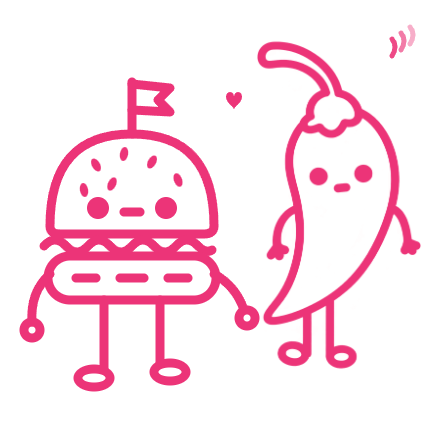
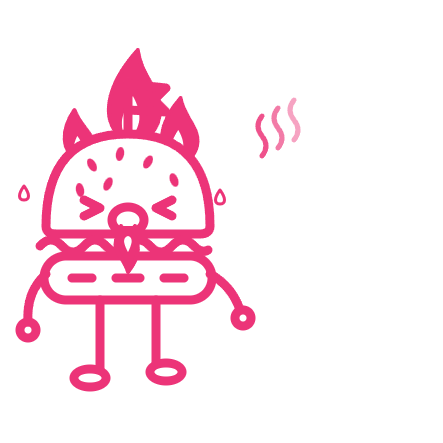
Cambios versión 3: #MUERDE LA TENTACIÓN, PM en el horario, GIF del ají y contraseña del admin
- Video de la plancha: "#MUERDE LA TENTACIÓN" en la esquina con sombra para leerse.
- Aviso de cerrado y página de cerrado: "PM" al lado de la hora.
- GIF: la hamburguesa se come el ají y arde por lo picante.
- Admin: botón CONTRASEÑA para cambiarla desde el panel
  (supabase/admin-password.sql, pide la actual y cierra otras sesiones).
- La contraseña ya no está escrita en el repositorio.

diff --git a/src/components/AdminPanel.jsx b/src/components/AdminPanel.jsx
@@ -1,11 +1,12 @@
 import { useEffect, useMemo, useState } from 'react';
 import { createPortal } from 'react-dom';
-import { ArrowLeft, Check, ClipboardList, FileCheck, Image, LogOut, MapPin, Package, Phone, RotateCcw, Search, ShoppingBag, Truck, X, ZoomIn, ZoomOut } from 'lucide-react';
+import { ArrowLeft, Check, ClipboardList, FileCheck, Image, KeyRound, LogOut, MapPin, Package, Phone, RotateCcw, Search, ShoppingBag, Truck, X, ZoomIn, ZoomOut } from 'lucide-react';
 import { getReceiptUrl } from '../lib/orders';
 import { getOrderStage, ORDER_STAGES } from '../lib/orderStatus';
 import { deliveryMapsUrl, displayDeliveryAddress, getDeliveryZoneFromAddress, DELIVERY_ZONES } from '../lib/delivery';
 import { loadDeliveryZones } from '../lib/deliveryZones';
 import AdminDeliveryZones from './AdminDeliveryZones';
+import AdminPasswordDialog from './AdminPasswordDialog';
 import StoreSwitch from './StoreSwitch';
 import AdminCoupons from './AdminCoupons';
 
@@ -22,7 +23,7 @@ function AdminAccess({user,authReady,onLogin,onSignOut,onDemoLogin}){
 
 export default function AdminPanel({products,stock,onToggleStock,orders,onUpdateOrder,onDeleteOrder,storeOpen,onToggleStore,storeSyncState,user,authReady,adminAllowed,onLogin,onSignOut,demoAdmin,onDemoLogin,demoToken}){
  const[tab,setTab]=useState('orders'),[selected,setSelected]=useState(null),[day,setDay]=useState('all'),[status,setStatus]=useState('all'),[query,setQuery]=useState(''),[busy,setBusy]=useState(false),[error,setError]=useState('');
- const[zones,setZones]=useState(DELIVERY_ZONES);
+ const[zones,setZones]=useState(DELIVERY_ZONES),[passwordOpen,setPasswordOpen]=useState(false);
  useEffect(()=>{loadDeliveryZones({includeInactive:true}).then(result=>setZones(result.zones)).catch(()=>{})},[]);
  const dates=useMemo(()=>[...new Set(orders.map(order=>new Date(order.created_at||Date.now()).toISOString().slice(0,10)))].sort().reverse(),[orders]);
  const filtered=useMemo(()=>orders.filter(order=>{
@@ -36,7 +37,7 @@ export default function AdminPanel({products,stock,onToggleStock,orders,onUpdate
  const remove=async()=>{if(!window.confirm('¿Eliminar este pedido y su comprobante?'))return;setBusy(true);const removed=await onDeleteOrder(selected.id);if(removed)setSelected(null);setBusy(false)};
  const selectedAddress=selected?.customer?.address||selected?.address||'',selectedDeliveryZone=selected?getDeliveryZoneFromAddress(selectedAddress,zones):null,selectedMapUrl=selected?deliveryMapsUrl(selectedAddress):null;
  const syncLabel=storeSyncState==='live'?'SINCRONIZACIÓN EN VIVO':storeSyncState==='connecting'?'CONECTANDO…':'RECONECTANDO';
- return <main className="admin-shell"><header className="admin-topbar"><a href="/" className="admin-brand"><img src="/assets/logo shet burger.png" alt=""/><span>SHET BURGER <small>ADMIN</small></span></a><button type="button" onClick={onSignOut}><LogOut/> Salir</button></header><div className="admin-content"><div className="admin-heading"><div><p>PANEL DE CONTROL</p><h1>Operación<br/><em>SHET.</em></h1></div><span>Pedidos, comprobantes<br/>y disponibilidad.</span></div><div className={`admin-sync-state is-${storeSyncState||'connecting'}`}><div><span>ESTADO DE SINCRONIZACIÓN</span><strong>{syncLabel}</strong></div><small>Los cambios de stock se guardan globalmente y se reflejan en todos los dispositivos.</small></div><div className="admin-store-sticky"><StoreSwitch active={storeOpen} onToggle={onToggleStore}/></div><div className="admin-stats"><article><ShoppingBag/><span>Pedidos totales</span><strong>{orders.length}</strong></article><article><ClipboardList/><span>Pendientes</span><strong>{orders.filter(order=>getOrderStage(order)<2).length}</strong></article><article><Truck/><span>Delivery activos</span><strong>{orders.filter(order=>(order.mode==='delivery'||order.fulfillment==='delivery')&&getOrderStage(order)<3).length}</strong></article><article><Package/><span>Productos activos</span><strong>{products.filter(product=>stock[product.id]!==false).length}</strong></article></div><nav className="admin-tabs"><button className={tab==='orders'?'active':''} onClick={()=>setTab('orders')}>PEDIDOS <b>{orders.length}</b></button><button className={tab==='logistics'?'active':''} onClick={()=>setTab('logistics')}>LOGÍSTICA</button><button className={tab==='receipts'?'active':''} onClick={()=>setTab('receipts')}>COMPROBANTES <b>{orders.filter(order=>order.receipt_name||order.receipt_path).length}</b></button><button className={tab==='products'?'active':''} onClick={()=>setTab('products')}>DISPONIBILIDAD</button><button className={tab==='coupons'?'active':''} onClick={()=>setTab('coupons')}>PROMOCIONES</button><button className={tab==='zones'?'active':''} onClick={()=>setTab('zones')}>ZONAS DE DESPACHO</button></nav>{tab==='coupons'&&<AdminCoupons token={demoToken||null} products={products}/>}{tab==='zones'&&<AdminDeliveryZones token={demoToken||null} zones={zones} onSaved={setZones}/>}{tab==='orders'&&<section className="admin-orders"><div className="admin-section-title"><h2>Pedidos</h2><div className="admin-order-filters"><label><Search/><input value={query} onChange={event=>setQuery(event.target.value)} placeholder="Nombre, teléfono o pedido"/></label><select value={status} onChange={event=>setStatus(event.target.value)}><option value="all">Todos los estados</option>{ORDER_STAGES.map(item=><option key={item.stage} value={item.stage}>{item.status}</option>)}</select><select value={day} onChange={event=>setDay(event.target.value)}><option value="all">Todos los días</option>{dates.map(date=><option key={date} value={date}>{date}</option>)}</select></div></div>{!filtered.length?<div className="admin-empty"><ClipboardList/><h3>No hay pedidos con estos filtros</h3></div>:filtered.map(order=><button className="admin-order" key={order.id} onClick={()=>{setError('');setSelected(order)}}><div><span>#{order.order_number||order.id}</span><strong>{order.customer?.name||order.customer_name||'Cliente'}</strong><small>{order.items?.length||0} productos · {order.mode==='delivery'||order.fulfillment==='delivery'?'Delivery':'Retiro'}{(order.receipt_name||order.receipt_path)&&<i> · Comprobante</i>}</small></div><div><b>{money(order.total)}</b><em>{order.status}</em></div></button>)}</section>}{tab==='logistics'&&<section className="analytics-card"><div className="admin-section-title"><h2>Flujo operativo</h2></div><div className="logistics-grid">{ORDER_STAGES.map(item=><article key={item.stage}><span>{item.status.toUpperCase()}</span><strong>{orders.filter(order=>getOrderStage(order)===item.stage).length}</strong></article>)}</div></section>}{tab==='receipts'&&<section className="admin-receipts"><div className="admin-section-title"><h2>Comprobantes enviados</h2><select value={day} onChange={event=>setDay(event.target.value)}><option value="all">Todos los días</option>{dates.map(date=><option key={date} value={date}>{date}</option>)}</select></div>{filtered.filter(order=>order.receipt_name||order.receipt_path||order.receipt_preview).map(order=><ReceiptRow key={order.id} order={order}/>) }{!filtered.some(order=>order.receipt_name||order.receipt_path||order.receipt_preview)&&<div className="admin-empty"><FileCheck/><h3>Sin comprobantes</h3></div>}</section>}{tab==='products'&&<section className="admin-products"><div className="admin-section-title"><h2>Disponibilidad</h2></div><div className="admin-product-list">{products.map(product=><article key={product.id}><div className="admin-product-thumb">{product.image?<img src={product.image} alt=""/>:<span>{product.category}</span>}</div><div><strong>{product.name}</strong><small>{product.category}</small></div><button className={stock[product.id]===false?'sold-out':''} onClick={()=>onToggleStock(product.id)}>{stock[product.id]===false?<><X/> AGOTADO</>:<><Check/> DISPONIBLE</>}</button></article>)}</div></section>}{selected&&<div className="admin-modal"><button className="admin-modal__backdrop" onClick={()=>setSelected(null)} aria-label="Cerrar detalle"/><article><button className="admin-modal__close" onClick={()=>setSelected(null)} aria-label="Cerrar"><X/></button><p>PEDIDO #{selected.order_number||selected.id}</p><h2>{selected.customer?.name||selected.customer_name||'Cliente'}</h2><span className="admin-mode">{selected.mode==='delivery'||selected.fulfillment==='delivery'?'DELIVERY · '+displayDeliveryAddress(selectedAddress):'RETIRO EN EL CARRITO · RÍO LOA 130'}</span>{selectedMapUrl&&<a className="admin-customer-phone" href={selectedMapUrl} target="_blank" rel="noreferrer"><MapPin/> ABRIR UBICACIÓN EN MAPS</a>}{(selected.customer?.phone||selected.customer_phone)&&<a className="admin-customer-phone" href={`tel:${selected.customer?.phone||selected.customer_phone}`}><Phone/> LLAMAR AL {selected.customer?.phone||selected.customer_phone}</a>}<div className="admin-modal__items">{selected.items?.map((item,index)=><div className="admin-item-detail" key={item.product?.id||index}><div><span>{item.quantity} × {item.product?.name||item.name} {item.variant&&`(${item.variant})`}</span><b>{money(item.price*item.quantity)}</b></div>{item.burger_choices?.length>0&&<small><strong>Hamburguesas:</strong> {item.burger_choices.join(', ')}</small>}{item.selections?.map((selection,i)=><small key={i}><strong>{selection.label}:</strong> {selection.value}</small>)}{item.note&&<small><strong>Instrucción:</strong> {item.note}</small>}</div>)}{selectedDeliveryZone&&<div><span>Despacho · {selectedDeliveryZone.label}</span><b>{money(selectedDeliveryZone.fee)}</b></div>}</div>{selected.coupon_code&&<p className="order-coupon-detail">Cupón {selected.coupon_code}: -{money(selected.discount_amount)}</p>}<div className="admin-modal__total"><span>Total</span><strong>{money(selected.total)}</strong></div><div className="admin-status"><Check/> {selected.status}</div><div className="admin-status-actions"><span>ACTUALIZAR ESTADO</span>{steps.map(item=><button className={getOrderStage(selected)===item.stage?'active':''} disabled={busy} key={item.status} onClick={()=>update(item.status,item.stage)}>{item.status.toUpperCase()}</button>)}</div>{error&&<p className="admin-error" role="alert">{error}</p>}{(selected.receipt_name||selected.receipt_path)&&<ReceiptRow order={selected}/>}<button className="admin-delete-order" disabled={busy} onClick={remove}>{busy?'PROCESANDO...':'ELIMINAR PEDIDO'}</button></article></div>}</div></main>;
+ return <main className="admin-shell"><header className="admin-topbar"><a href="/" className="admin-brand"><img src="/assets/logo shet burger.png" alt=""/><span>SHET BURGER <small>ADMIN</small></span></a><div className="admin-topbar__actions">{demoToken&&<button type="button" onClick={()=>setPasswordOpen(true)}><KeyRound/> Contraseña</button>}<button type="button" onClick={onSignOut}><LogOut/> Salir</button></div></header>{passwordOpen&&<AdminPasswordDialog token={demoToken} onClose={()=>setPasswordOpen(false)}/>}<div className="admin-content"><div className="admin-heading"><div><p>PANEL DE CONTROL</p><h1>Operación<br/><em>SHET.</em></h1></div><span>Pedidos, comprobantes<br/>y disponibilidad.</span></div><div className={`admin-sync-state is-${storeSyncState||'connecting'}`}><div><span>ESTADO DE SINCRONIZACIÓN</span><strong>{syncLabel}</strong></div><small>Los cambios de stock se guardan globalmente y se reflejan en todos los dispositivos.</small></div><div className="admin-store-sticky"><StoreSwitch active={storeOpen} onToggle={onToggleStore}/></div><div className="admin-stats"><article><ShoppingBag/><span>Pedidos totales</span><strong>{orders.length}</strong></article><article><ClipboardList/><span>Pendientes</span><strong>{orders.filter(order=>getOrderStage(order)<2).length}</strong></article><article><Truck/><span>Delivery activos</span><strong>{orders.filter(order=>(order.mode==='delivery'||order.fulfillment==='delivery')&&getOrderStage(order)<3).length}</strong></article><article><Package/><span>Productos activos</span><strong>{products.filter(product=>stock[product.id]!==false).length}</strong></article></div><nav className="admin-tabs"><button className={tab==='orders'?'active':''} onClick={()=>setTab('orders')}>PEDIDOS <b>{orders.length}</b></button><button className={tab==='logistics'?'active':''} onClick={()=>setTab('logistics')}>LOGÍSTICA</button><button className={tab==='receipts'?'active':''} onClick={()=>setTab('receipts')}>COMPROBANTES <b>{orders.filter(order=>order.receipt_name||order.receipt_path).length}</b></button><button className={tab==='products'?'active':''} onClick={()=>setTab('products')}>DISPONIBILIDAD</button><button className={tab==='coupons'?'active':''} onClick={()=>setTab('coupons')}>PROMOCIONES</button><button className={tab==='zones'?'active':''} onClick={()=>setTab('zones')}>ZONAS DE DESPACHO</button></nav>{tab==='coupons'&&<AdminCoupons token={demoToken||null} products={products}/>}{tab==='zones'&&<AdminDeliveryZones token={demoToken||null} zones={zones} onSaved={setZones}/>}{tab==='orders'&&<section className="admin-orders"><div className="admin-section-title"><h2>Pedidos</h2><div className="admin-order-filters"><label><Search/><input value={query} onChange={event=>setQuery(event.target.value)} placeholder="Nombre, teléfono o pedido"/></label><select value={status} onChange={event=>setStatus(event.target.value)}><option value="all">Todos los estados</option>{ORDER_STAGES.map(item=><option key={item.stage} value={item.stage}>{item.status}</option>)}</select><select value={day} onChange={event=>setDay(event.target.value)}><option value="all">Todos los días</option>{dates.map(date=><option key={date} value={date}>{date}</option>)}</select></div></div>{!filtered.length?<div className="admin-empty"><ClipboardList/><h3>No hay pedidos con estos filtros</h3></div>:filtered.map(order=><button className="admin-order" key={order.id} onClick={()=>{setError('');setSelected(order)}}><div><span>#{order.order_number||order.id}</span><strong>{order.customer?.name||order.customer_name||'Cliente'}</strong><small>{order.items?.length||0} productos · {order.mode==='delivery'||order.fulfillment==='delivery'?'Delivery':'Retiro'}{(order.receipt_name||order.receipt_path)&&<i> · Comprobante</i>}</small></div><div><b>{money(order.total)}</b><em>{order.status}</em></div></button>)}</section>}{tab==='logistics'&&<section className="analytics-card"><div className="admin-section-title"><h2>Flujo operativo</h2></div><div className="logistics-grid">{ORDER_STAGES.map(item=><article key={item.stage}><span>{item.status.toUpperCase()}</span><strong>{orders.filter(order=>getOrderStage(order)===item.stage).length}</strong></article>)}</div></section>}{tab==='receipts'&&<section className="admin-receipts"><div className="admin-section-title"><h2>Comprobantes enviados</h2><select value={day} onChange={event=>setDay(event.target.value)}><option value="all">Todos los días</option>{dates.map(date=><option key={date} value={date}>{date}</option>)}</select></div>{filtered.filter(order=>order.receipt_name||order.receipt_path||order.receipt_preview).map(order=><ReceiptRow key={order.id} order={order}/>) }{!filtered.some(order=>order.receipt_name||order.receipt_path||order.receipt_preview)&&<div className="admin-empty"><FileCheck/><h3>Sin comprobantes</h3></div>}</section>}{tab==='products'&&<section className="admin-products"><div className="admin-section-title"><h2>Disponibilidad</h2></div><div className="admin-product-list">{products.map(product=><article key={product.id}><div className="admin-product-thumb">{product.image?<img src={product.image} alt=""/>:<span>{product.category}</span>}</div><div><strong>{product.name}</strong><small>{product.category}</small></div><button className={stock[product.id]===false?'sold-out':''} onClick={()=>onToggleStock(product.id)}>{stock[product.id]===false?<><X/> AGOTADO</>:<><Check/> DISPONIBLE</>}</button></article>)}</div></section>}{selected&&<div className="admin-modal"><button className="admin-modal__backdrop" onClick={()=>setSelected(null)} aria-label="Cerrar detalle"/><article><button className="admin-modal__close" onClick={()=>setSelected(null)} aria-label="Cerrar"><X/></button><p>PEDIDO #{selected.order_number||selected.id}</p><h2>{selected.customer?.name||selected.customer_name||'Cliente'}</h2><span className="admin-mode">{selected.mode==='delivery'||selected.fulfillment==='delivery'?'DELIVERY · '+displayDeliveryAddress(selectedAddress):'RETIRO EN EL CARRITO · RÍO LOA 130'}</span>{selectedMapUrl&&<a className="admin-customer-phone" href={selectedMapUrl} target="_blank" rel="noreferrer"><MapPin/> ABRIR UBICACIÓN EN MAPS</a>}{(selected.customer?.phone||selected.customer_phone)&&<a className="admin-customer-phone" href={`tel:${selected.customer?.phone||selected.customer_phone}`}><Phone/> LLAMAR AL {selected.customer?.phone||selected.customer_phone}</a>}<div className="admin-modal__items">{selected.items?.map((item,index)=><div className="admin-item-detail" key={item.product?.id||index}><div><span>{item.quantity} × {item.product?.name||item.name} {item.variant&&`(${item.variant})`}</span><b>{money(item.price*item.quantity)}</b></div>{item.burger_choices?.length>0&&<small><strong>Hamburguesas:</strong> {item.burger_choices.join(', ')}</small>}{item.selections?.map((selection,i)=><small key={i}><strong>{selection.label}:</strong> {selection.value}</small>)}{item.note&&<small><strong>Instrucción:</strong> {item.note}</small>}</div>)}{selectedDeliveryZone&&<div><span>Despacho · {selectedDeliveryZone.label}</span><b>{money(selectedDeliveryZone.fee)}</b></div>}</div>{selected.coupon_code&&<p className="order-coupon-detail">Cupón {selected.coupon_code}: -{money(selected.discount_amount)}</p>}<div className="admin-modal__total"><span>Total</span><strong>{money(selected.total)}</strong></div><div className="admin-status"><Check/> {selected.status}</div><div className="admin-status-actions"><span>ACTUALIZAR ESTADO</span>{steps.map(item=><button className={getOrderStage(selected)===item.stage?'active':''} disabled={busy} key={item.status} onClick={()=>update(item.status,item.stage)}>{item.status.toUpperCase()}</button>)}</div>{error&&<p className="admin-error" role="alert">{error}</p>}{(selected.receipt_name||selected.receipt_path)&&<ReceiptRow order={selected}/>}<button className="admin-delete-order" disabled={busy} onClick={remove}>{busy?'PROCESANDO...':'ELIMINAR PEDIDO'}</button></article></div>}</div></main>;
 }
 
 function ReceiptRow({order}){

diff --git a/src/components/AdminPasswordDialog.jsx b/src/components/AdminPasswordDialog.jsx
@@ -1,0 +1,48 @@
+import { useEffect, useState } from 'react';
+import { Check, Eye, EyeOff, KeyRound, X } from 'lucide-react';
+import { changeAdminPassword } from '../lib/supabase';
+
+/** Lets the owner change the admin panel password (needs the current one). */
+export default function AdminPasswordDialog({ token, onClose }) {
+  const [current, setCurrent] = useState(''), [next, setNext] = useState(''), [repeat, setRepeat] = useState('');
+  const [show, setShow] = useState(false), [busy, setBusy] = useState(false), [error, setError] = useState(''), [done, setDone] = useState(false);
+  useEffect(() => { const escape = event => event.key === 'Escape' && onClose(); window.addEventListener('keydown', escape); return () => window.removeEventListener('keydown', escape); }, [onClose]);
+
+  const submit = async event => {
+    event.preventDefault(); setError('');
+    if (next.length < 8) { setError('La nueva contraseña debe tener al menos 8 caracteres.'); return; }
+    if (next !== repeat) { setError('Las contraseñas nuevas no coinciden.'); return; }
+    if (next === current) { setError('La nueva contraseña debe ser distinta de la actual.'); return; }
+    setBusy(true);
+    const { error: failure } = await changeAdminPassword(token, current, next);
+    setBusy(false);
+    if (failure) {
+      setError(/demo_admin_change_password|schema cache|function/i.test(failure.message || '') ? 'Falta instalar esta función: ejecuta supabase/admin-password.sql en Supabase.' : failure.message || 'No se pudo cambiar la contraseña.');
+      return;
+    }
+    setDone(true);
+  };
+
+  const type = show ? 'text' : 'password';
+  return <div className="admin-modal admin-password" role="dialog" aria-modal="true" aria-labelledby="admin-password-title">
+    <button className="admin-modal__backdrop" type="button" onClick={onClose} aria-label="Cerrar"/>
+    <article>
+      <button className="admin-modal__close" type="button" onClick={onClose} aria-label="Cerrar"><X/></button>
+      <p><KeyRound aria-hidden="true"/> SEGURIDAD</p>
+      <h2 id="admin-password-title">Cambiar contraseña</h2>
+      {done ? <div className="admin-password__done" role="status">
+        <Check aria-hidden="true"/>
+        <strong>Contraseña actualizada.</strong>
+        <span>Úsala la próxima vez que entres. Se cerró la sesión en los demás dispositivos.</span>
+        <button className="admin-submit" type="button" onClick={onClose}>LISTO</button>
+      </div> : <form onSubmit={submit}>
+        <label>Contraseña actual<input type={type} autoComplete="current-password" required value={current} onChange={event => setCurrent(event.target.value)}/></label>
+        <label>Nueva contraseña<input type={type} autoComplete="new-password" required minLength="8" maxLength="72" value={next} onChange={event => setNext(event.target.value)}/><small>Mínimo 8 caracteres.</small></label>
+        <label>Repite la nueva contraseña<input type={type} autoComplete="new-password" required minLength="8" maxLength="72" value={repeat} onChange={event => setRepeat(event.target.value)}/></label>
+        <button className="admin-password__toggle" type="button" onClick={() => setShow(value => !value)}>{show ? <EyeOff aria-hidden="true"/> : <Eye aria-hidden="true"/>} {show ? 'Ocultar' : 'Mostrar'} contraseñas</button>
+        {error && <p className="admin-error" role="alert">{error}</p>}
+        <button className="admin-submit" type="submit" disabled={busy}>{busy ? 'GUARDANDO…' : 'GUARDAR CONTRASEÑA'}</button>
+      </form>}
+    </article>
+  </div>;
+}

diff --git a/src/design/delivery-zones.css b/src/design/delivery-zones.css
@@ -48,3 +48,20 @@
 .zone-label { padding:.15rem .4rem; border:1px solid rgb(0 0 0 / 25%); border-radius:.35rem; background:rgb(255 255 255 / 88%); box-shadow:none; color:#0a0a0a; font:700 .65rem/1.2 var(--font-body,sans-serif); text-align:center; pointer-events:none; }
 .zone-label::before { display:none; }
 .zone-label.is-selected { border-color:#EC3478; background:#EC3478; color:#fff; }
+
+/* ── Admin: topbar actions and password dialog ── */
+.admin-topbar__actions { display:flex; align-items:center; gap:.25rem; }
+.admin-topbar__actions > button { display:inline-flex; align-items:center; gap:.4rem; min-height:2.75rem; padding:0 .7rem; border:0; background:transparent; color:var(--color-cream); font:inherit; cursor:pointer; }
+.admin-topbar__actions svg { width:1.05rem; height:1.05rem; }
+@media (hover:hover) { .admin-topbar__actions > button:hover { color:#f09ac4; } }
+.admin-password article { max-width:28rem; }
+.admin-password article > p { display:inline-flex; align-items:center; gap:.4rem; }
+.admin-password article > p svg { width:1rem; height:1rem; }
+.admin-password form { display:grid; gap:.9rem; margin-top:1rem; }
+.admin-password label { display:grid; gap:.35rem; font-size:.8rem; font-weight:700; }
+.admin-password input { min-height:2.75rem; padding:.55rem .75rem; border:1px solid rgb(0 0 0 / 25%); border-radius:.5rem; font:inherit; font-weight:400; }
+.admin-password label small { color:#666; font-weight:400; }
+.admin-password__toggle { display:inline-flex; align-items:center; gap:.4rem; justify-self:start; padding:.3rem 0; border:0; background:none; color:inherit; font:inherit; font-size:.8rem; text-decoration:underline; cursor:pointer; }
+.admin-password__toggle svg { width:1rem; height:1rem; }
+.admin-password__done { display:grid; justify-items:start; gap:.6rem; margin-top:1rem; }
+.admin-password__done > svg { width:2.25rem; height:2.25rem; padding:.4rem; border-radius:50%; background:#27AE60; color:#fff; }

diff --git a/src/components/ClosedPopup.jsx b/src/components/ClosedPopup.jsx
@@ -6,7 +6,7 @@ import useOpeningCountdown from '../lib/useOpeningCountdown';
 export default function ClosedPopup({ storeOpen, content }) {
   const [dismissed, setDismissed] = useState(false);
   const close = useRef(null);
-  const { time, countdown } = useOpeningCountdown(!storeOpen && !dismissed);
+  const { time, meridiem, countdown } = useOpeningCountdown(!storeOpen && !dismissed);
   useEffect(() => { setDismissed(false); }, [storeOpen]);
   useEffect(() => {
     if (storeOpen || dismissed) return;
@@ -32,7 +32,7 @@ export default function ClosedPopup({ storeOpen, content }) {
       <button ref={close} type="button" className="closed-popup__close" onClick={() => setDismissed(true)} aria-label="Cerrar aviso"><X/></button>
       <div className="closed-popup__tape" aria-hidden="true">CERRADO <Asterisk/> CERRADO <Asterisk/> CERRADO</div>
       <img src="/assets/logo shet burger.png" alt="SHET BURGER"/>
-      <h2 id="closed-title">ABRIMOS<br/>A LAS <em>{time}</em></h2>
+      <h2 id="closed-title">ABRIMOS<br/>A LAS <em>{time}<small className="closed-meridiem">{meridiem}</small></em></h2>
       <p className="closed-popup__countdown">FALTAN <b>{countdown}</b></p>
       <p>{content.closedMessage || 'Por ahora la plancha está apagada. Puedes recorrer la carta y elegir tu SHET: los pedidos se habilitan al abrir.'}</p>
       {content.openingHours && <p className="closed-popup__hours">{content.openingHours}</p>}

diff --git a/src/components/HomeJetset.jsx b/src/components/HomeJetset.jsx
@@ -21,7 +21,7 @@ export function TapeVideo() {
     </div>
     <div className="tape-video__media">
       <AutoVideo src={planchaVideo} className="tape-video__main" poster="/assets/campaign/hero-poster-960.webp" label="Hamburguesa SHET doble con cheddar recién hecha"/>
-      <p className="tape-video__caption" aria-hidden="true">DIRECTO DE<br/><em>LA PLANCHA</em></p>
+      <p className="tape-video__caption" aria-hidden="true">#MUERDE<br/><em>LA TENTACIÓN</em></p>
     </div>
   </section>;
 }
@@ -45,7 +45,7 @@ export function ScrollMarquee({ rows = marqueeRows }) {
 const crew = [
   { src: '/assets/caricaturas/abrazo.gif', still: '/assets/caricaturas/abrazo-still.png', name: 'BFF', alt: 'Lata y hamburguesa SHET abrazándose' },
   { src: '/assets/caricaturas/tocino.gif', still: '/assets/caricaturas/tocino-still.png', name: 'BACON LOVERS', alt: 'Hamburguesa SHET comiendo tocino' },
-  { src: '/assets/caricaturas/pepinillo.gif', still: '/assets/caricaturas/pepinillo-still.png', name: 'AJÍ PEPINILLO', alt: 'Hamburguesa SHET de la mano con un pepinillo que sostiene un ají' },
+  { src: '/assets/caricaturas/pepinillo.gif', still: '/assets/caricaturas/pepinillo-still.png', name: 'AJÍ PEPINILLO', alt: 'Hamburguesa SHET se come un ají y arde por lo picante' },
 ];
 const loop = [0, 1, 2, 3].flatMap(round => crew.map(member => ({ ...member, key: `${member.name}-${round}`, hidden: round > 0 })));
 

diff --git a/src/components/StoreClosed.jsx b/src/components/StoreClosed.jsx
@@ -9,13 +9,13 @@ export function ClosedTape() {
 
 // Big in-page notice for /delivery while the store switch is off.
 export default function StoreClosed({ content = {} }) {
-  const { time, countdown } = useOpeningCountdown();
+  const { time, meridiem, countdown } = useOpeningCountdown();
   return <section className="store-closed" role="status" aria-labelledby="store-closed-title">
     <ClosedTape/>
     <div className="store-closed__inner">
       <div className="store-closed__copy">
         <span className="store-closed__pill"><i/>PLANCHA APAGADA</span>
-        <h2 id="store-closed-title">ABRIMOS<br/>A LAS <em>{time}</em></h2>
+        <h2 id="store-closed-title">ABRIMOS<br/>A LAS <em>{time}<small className="closed-meridiem">{meridiem}</small></em></h2>
         <p className="store-closed__countdown">FALTAN <b>{countdown}</b></p>
       </div>
       <div className="store-closed__side">

diff --git a/src/lib/useOpeningCountdown.js b/src/lib/useOpeningCountdown.js
@@ -10,6 +10,9 @@ export function minutesUntilOpening(now = new Date(), time = openingTime) {
   return Math.ceil((next - now) / 60000);
 }
 
+/** "18:00" → "PM", "09:30" → "AM". */
+export const meridiem = (time = openingTime) => Number(String(time).split(':')[0]) >= 12 ? 'PM' : 'AM';
+
 export function formatCountdown(total) {
   const hours = Math.floor(total / 60), minutes = total % 60;
   if (!hours) return `${minutes} MIN`;
@@ -24,5 +27,5 @@ export default function useOpeningCountdown(active = true) {
     const timer = window.setInterval(() => setMinutes(minutesUntilOpening()), 30000);
     return () => window.clearInterval(timer);
   }, [active]);
-  return { time: openingTime, minutes, countdown: formatCountdown(minutes) };
+  return { time: openingTime, meridiem: meridiem(openingTime), minutes, countdown: formatCountdown(minutes) };
 }

diff --git a/src/design/store-closed.css b/src/design/store-closed.css
@@ -53,3 +53,8 @@ body:has(.store-closed) .global-store-alert { display: none; }
 @media (prefers-reduced-motion: reduce) {
   .closed-tape > div, .store-closed [class], .store-closed__inner, .closed-popup__card, .store-closed__link svg { animation: none !important; }
 }
+
+/* "PM" next to the opening time */
+.closed-meridiem { display:inline-block; margin-left:.12em; font-size:.42em; line-height:1; letter-spacing:.02em; vertical-align:.95em; color:inherit; }
+#closed-title em, #store-closed-title em { white-space:nowrap; }
+#closed-title .closed-meridiem, #store-closed-title .closed-meridiem { display:inline-block; margin:0 0 0 .12em; padding:0; font-size:.42em; line-height:1; vertical-align:.95em; color:inherit; letter-spacing:.02em; }

diff --git a/src/lib/supabase.js b/src/lib/supabase.js
@@ -40,3 +40,10 @@ export async function signOutCustomer() {
   if (!supabase) return;
   return supabase.auth.signOut();
 }
+
+/** Changes the admin panel password; requires the current session token and the current password. */
+export async function changeAdminPassword(token, currentPassword, newPassword) {
+  if (!supabase) return { error: new Error('Supabase no configurado') };
+  const { error } = await supabase.rpc('demo_admin_change_password', { p_token: token, p_current: currentPassword, p_new: newPassword });
+  return { error };
+}

diff --git a/src/design/home-jetset.css b/src/design/home-jetset.css
@@ -162,3 +162,6 @@
   .home-page .mood-board__photo--table { height:clamp(560px,46vw,680px); }
   .mood-board__photo--table > img { object-position:50% 70%; }
 }
+
+/* Dark corner behind the #MUERDE LA TENTACIÓN caption so it reads on bright frames */
+.tape-video__media::after { content:''; position:absolute; z-index:1; inset:auto 0 0 auto; width:85%; height:55%; background:radial-gradient(ellipse at 100% 100%,rgb(0 0 0 / 62%),transparent 70%); pointer-events:none; }

diff --git a/README.md b/README.md
@@ -22,7 +22,7 @@ La separación **INICIO / PEDIR / PUNTO DE RETIRO** está documentada en [HOME-D
 
 La actualización visual y el sistema de reseñas están documentados en [EDITORIAL.md](EDITORIAL.md): archivos, variables, migración Supabase, moderación, ubicación pendiente y despliegue en Cloudflare.
 
-Sitio de pedidos construido con React, Vite y Supabase. Incluye catálogo, carrito, transferencia con comprobante, seguimiento, acceso de clientes con Google y panel administrativo. Para el boceto, el panel conserva el acceso demo `shet.burger@gmail.com` / `shet2026`; reemplázalo por autenticación real antes de aceptar pedidos en producción.
+Sitio de pedidos construido con React, Vite y Supabase. Incluye catálogo, carrito, transferencia con comprobante, seguimiento, acceso de clientes con Google y panel administrativo. Para el boceto, el panel usa el acceso `shet.burger@gmail.com` con una contraseña privada que el dueño cambia desde el panel (botón CONTRASEÑA, requiere `supabase/admin-password.sql`).
 
 ## Desarrollo
 
